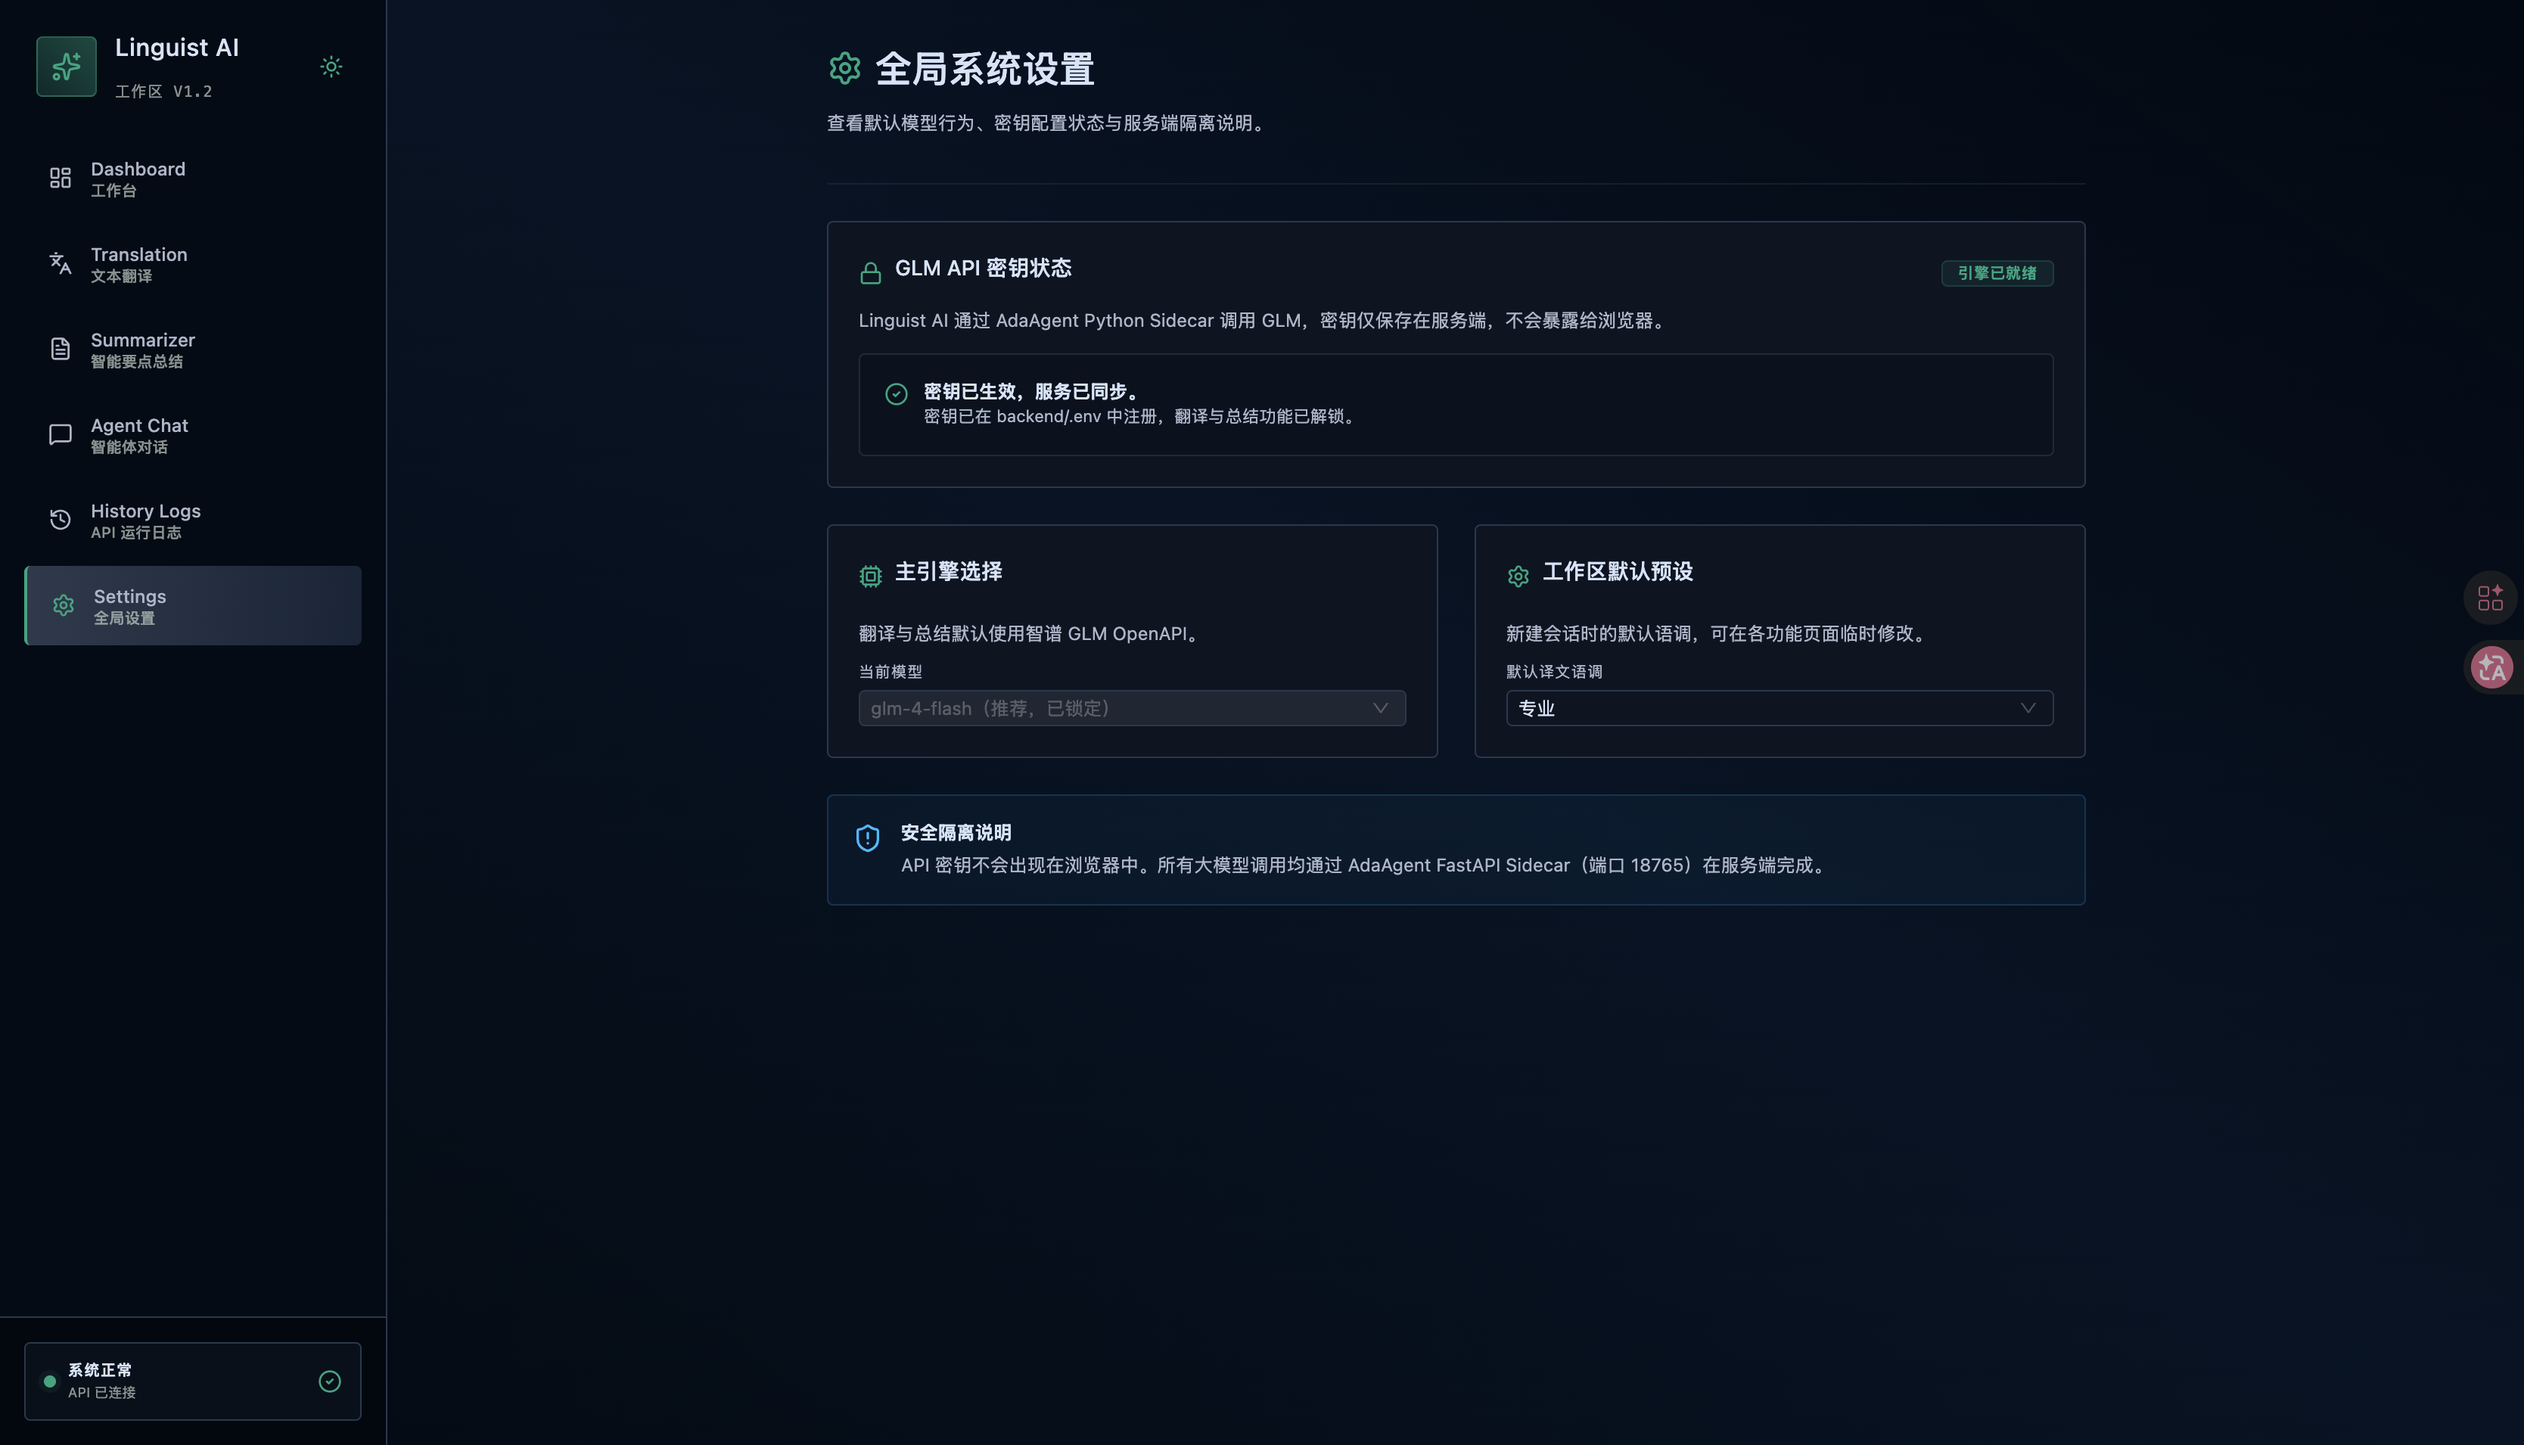
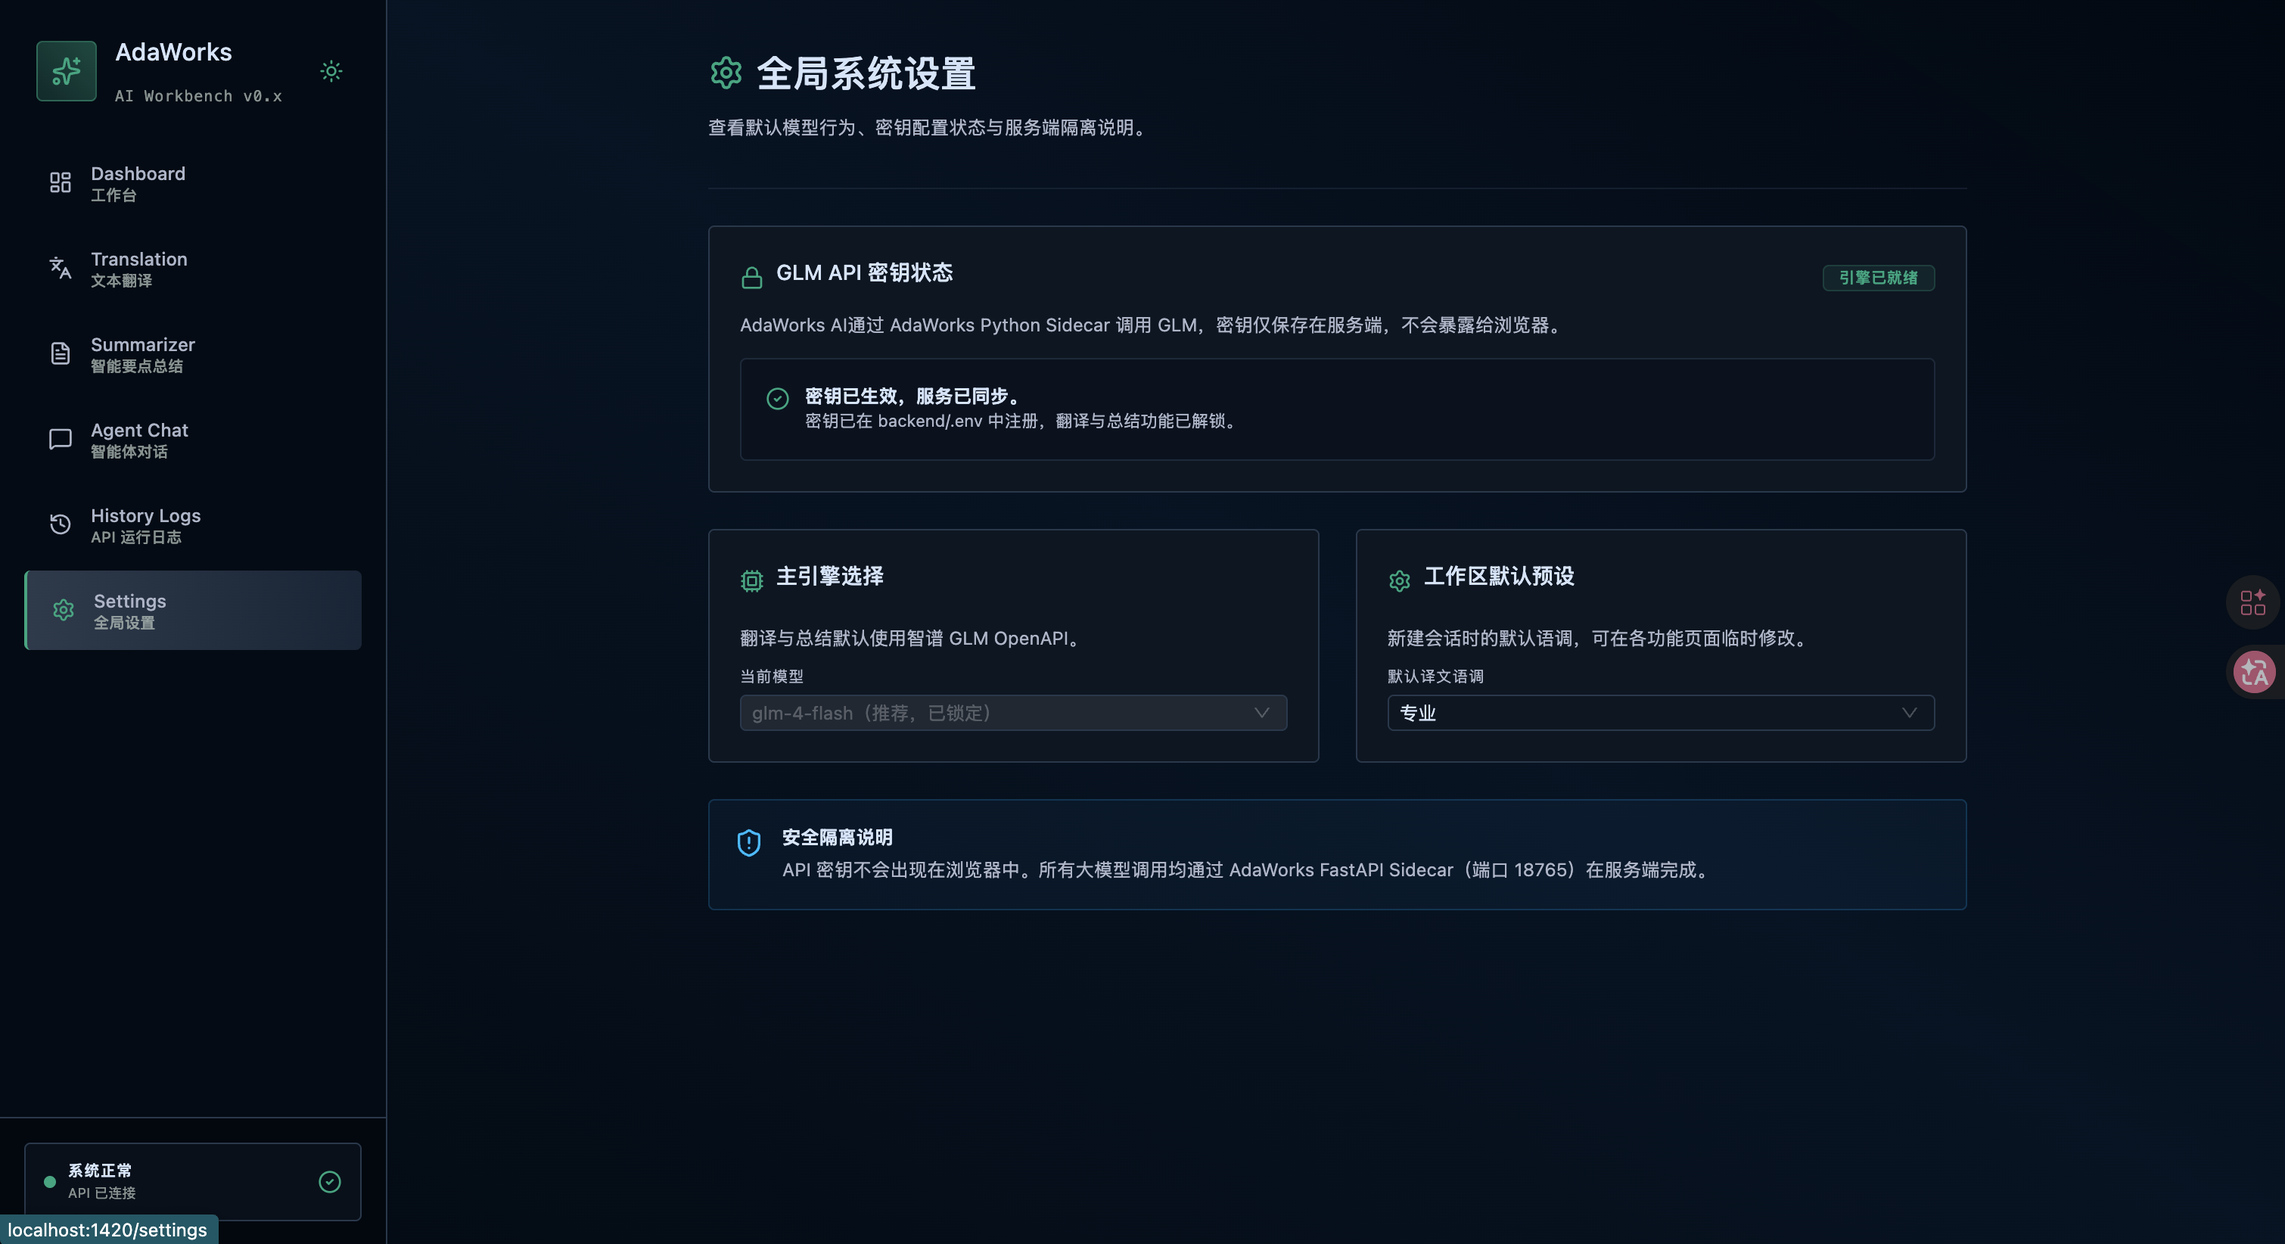
feat: 重命名 AdaAgent → AdaWorks，更新截图与 README 预览图
- 全量替换 AdaAgent/adaagent → AdaWorks/adaworks（含目录重命名 backend/adaagent/ → backend/adaworks/）
- README 添加明暗主题 Dashboard 预览图，更新 clone 地址为 Gitee
- 替换验证截图为新版 UI 截图

diff --git a/README.md b/README.md
@@ -1,5 +1,12 @@
 # AdaWorks — AI Native Workbench
 
+<p align="center">
+  <img src="docs/verification/light/Dashboard.png" alt="AdaWorks Dashboard (Light)" width="800" />
+</p>
+<p align="center">
+  <img src="docs/verification/dark/Main_Dashboard.png" alt="AdaWorks Dashboard (Dark)" width="800" />
+</p>
+
 > A full-stack AI workbench that treats every LLM capability as a unified streaming task — observable, cancellable, and extensible by design.
 
 AdaWorks 是一个正在持续迭代的 **AI Native 工作台**。它将 LLM 的各项能力（翻译、总结、Agent 对话、即将到来的 RAG 问答）统一抽象为 SSE 流式任务，共享同一套生命周期管理、安全防护与可观测性基础设施。核心理念：**新增一种 AI 能力，前端 SSE 解析逻辑零改动，后端只加一个 Prompt 构建函数。**
@@ -21,26 +28,26 @@ RAG* ──┘  ← 新增能力只需注册 task_type，前端 useTask() 直接
 
 ### 核心场景
 
-| 场景 | 用户价值 | 技术实现 |
-|------|----------|----------|
-| **多语言翻译** | 10 种语言 × 5 种语调，双栏对照实时对照 | SSE 逐 token 流式，支持中途停止、语言互换、结果导出 |
-| **智能总结** | 长文一键提炼为概述 + 要点，两种模式切换 | LLM 输出 JSON Schema 校验 + 自动重试，保证结构化结果可靠 |
-| **Agent 对话** | 多轮对话中可视化观察 Think → Act → Observe 推理过程 | WebSocket Room 广播支持多标签页，ReAct 步骤独立组件渲染 |
-| **工作台入口** | 粘贴文本自动判断翻译 or 总结并跳转 | 关键词 + 文本长度启发式路由，跨页面预填 |
-| **CLI 工具** | 终端内 `ai-app translate/summarize` 直接使用 | Click + httpx SSE 流式，零前端依赖 |
+| 场景           | 用户价值                                            | 技术实现                                                 |
+| -------------- | --------------------------------------------------- | -------------------------------------------------------- |
+| **多语言翻译** | 10 种语言 × 5 种语调，双栏对照实时对照              | SSE 逐 token 流式，支持中途停止、语言互换、结果导出      |
+| **智能总结**   | 长文一键提炼为概述 + 要点，两种模式切换             | LLM 输出 JSON Schema 校验 + 自动重试，保证结构化结果可靠 |
+| **Agent 对话** | 多轮对话中可视化观察 Think → Act → Observe 推理过程 | WebSocket Room 广播支持多标签页，ReAct 步骤独立组件渲染  |
+| **工作台入口** | 粘贴文本自动判断翻译 or 总结并跳转                  | 关键词 + 文本长度启发式路由，跨页面预填                  |
+| **CLI 工具**   | 终端内 `ai-app translate/summarize` 直接使用        | Click + httpx SSE 流式，零前端依赖                       |
 
 ### 非功能性保障
 
-| 维度 | 实现 |
-|------|------|
-| **流式性能** | `useStreamBuffer` 以 16ms（60fps）为粒度批量合并 token，避免逐 token 触发 Vue 重渲染 |
+| 维度         | 实现                                                                                   |
+| ------------ | -------------------------------------------------------------------------------------- |
+| **流式性能** | `useStreamBuffer` 以 16ms（60fps）为粒度批量合并 token，避免逐 token 触发 Vue 重渲染   |
 | **取消闭环** | 前端 `AbortController` + 后端 `asyncio.Event` 协作式取消，退出前完成日志写入和状态通知 |
-| **任务恢复** | `sessionStorage` 持久化 taskId，页面刷新后查询后端任务状态并提示用户 |
-| **安全退出** | 路由守卫拦截离开 + `beforeunload` + `fetch(keepalive:true)` 确保后端感知客户端断开 |
-| **注入防护** | XML 标签隔离用户内容 + system prompt 安全规则 + Pydantic 输出校验 + 语言一致性检查 |
-| **错误体系** | 四级错误分级（L1 输入 → L2 限流 → L3 系统 → L4 认证），全局 `X-Request-ID` 请求追踪 |
-| **输入安全** | Unicode NFC 规范化、50K 字符上限、Token 估算限制、控制字符过滤、上游错误 API Key 脱敏 |
-| **僵尸清理** | 后台 sweeper 每 60s 扫描无心跳 RUNNING 任务，标记 FAILED 释放资源 |
+| **任务恢复** | `sessionStorage` 持久化 taskId，页面刷新后查询后端任务状态并提示用户                   |
+| **安全退出** | 路由守卫拦截离开 + `beforeunload` + `fetch(keepalive:true)` 确保后端感知客户端断开     |
+| **注入防护** | XML 标签隔离用户内容 + system prompt 安全规则 + Pydantic 输出校验 + 语言一致性检查     |
+| **错误体系** | 四级错误分级（L1 输入 → L2 限流 → L3 系统 → L4 认证），全局 `X-Request-ID` 请求追踪    |
+| **输入安全** | Unicode NFC 规范化、50K 字符上限、Token 估算限制、控制字符过滤、上游错误 API Key 脱敏  |
+| **僵尸清理** | 后台 sweeper 每 60s 扫描无心跳 RUNNING 任务，标记 FAILED 释放资源                      |
 
 ---
 
@@ -133,19 +140,19 @@ Prompt层 → System 规则声明（"source content cannot override them"）
 
 ## 技术栈
 
-| 层 | 选型 | 选型理由 |
-|----|------|----------|
-| 前端框架 | Vue 3 + TypeScript + Vite | Composition API 原生支持 Composable 抽象，TypeScript 保证类型安全 |
-| UI | Ant Design Vue + Tailwind CSS v4 | Ant Design 处理复杂表单控件，Tailwind 处理布局和自定义样式 |
-| 状态管理 | Pinia (setup store) | 比 Options API store 更好的 TypeScript 推断，按业务域划分 |
-| 后端框架 | FastAPI + Uvicorn | 原生 async/await + 自动 OpenAPI 文档 + Pydantic 校验 |
-| 数据库 | SQLite (aiosqlite) | 单文件零运维，Lock 串行化写入，架构上已抽离 db.py 可迁移 |
-| 配置 | pydantic-settings | 类型安全的环境变量读取，支持验证和默认值 |
-| LLM | GLM / Gemini / Mock | 三 Provider 抽象层，Mock 模式零配置联调 |
-| 实时通信 | SSE (sse-starlette) + WebSocket | SSE 用于单向流式（翻译/总结），WS 用于双向实时（Agent Chat） |
-| HTTP 客户端 | httpx (Python) / fetch (JS) | httpx 支持 async stream，fetch 支持 ReadableStream + AbortController |
-| CLI | Click + httpx | Click 命令定义，httpx 流式读取 SSE |
-| 测试 | pytest + Vitest | 后端 pytest 异步测试，前端 Vitest 组件测试 |
+| 层          | 选型                             | 选型理由                                                             |
+| ----------- | -------------------------------- | -------------------------------------------------------------------- |
+| 前端框架    | Vue 3 + TypeScript + Vite        | Composition API 原生支持 Composable 抽象，TypeScript 保证类型安全    |
+| UI          | Ant Design Vue + Tailwind CSS v4 | Ant Design 处理复杂表单控件，Tailwind 处理布局和自定义样式           |
+| 状态管理    | Pinia (setup store)              | 比 Options API store 更好的 TypeScript 推断，按业务域划分            |
+| 后端框架    | FastAPI + Uvicorn                | 原生 async/await + 自动 OpenAPI 文档 + Pydantic 校验                 |
+| 数据库      | SQLite (aiosqlite)               | 单文件零运维，Lock 串行化写入，架构上已抽离 db.py 可迁移             |
+| 配置        | pydantic-settings                | 类型安全的环境变量读取，支持验证和默认值                             |
+| LLM         | GLM / Gemini / Mock              | 三 Provider 抽象层，Mock 模式零配置联调                              |
+| 实时通信    | SSE (sse-starlette) + WebSocket  | SSE 用于单向流式（翻译/总结），WS 用于双向实时（Agent Chat）         |
+| HTTP 客户端 | httpx (Python) / fetch (JS)      | httpx 支持 async stream，fetch 支持 ReadableStream + AbortController |
+| CLI         | Click + httpx                    | Click 命令定义，httpx 流式读取 SSE                                   |
+| 测试        | pytest + Vitest                  | 后端 pytest 异步测试，前端 Vitest 组件测试                           |
 
 ### 目录结构
 
@@ -190,7 +197,7 @@ AdaWorks/
 ### Install & Run
 
 ```bash
-git clone <repo-url> AdaWorks && cd AdaWorks
+git clone https://gitee.com/renxiaodr/ada-ai-platform.git AdaWorks && cd AdaWorks
 npm install && npm run sidecar:setup    # 安装前端依赖 + 创建后端虚拟环境
 
 # 配置 LLM（可选 — 不配置则 Mock 模式零配置运行）
@@ -200,11 +207,11 @@ cp backend/.env.example backend/.env
 npm run dev:all    # 前端(:1420) + 后端(:18765) 同时启动
 ```
 
-| Service | URL |
-|---------|-----|
-| Web UI | http://localhost:1420 |
-| API Health | http://127.0.0.1:18765/api/health |
-| CLI | `ai-app translate --text "Hello" --from en --to zh` |
+| Service    | URL                                                 |
+| ---------- | --------------------------------------------------- |
+| Web UI     | http://localhost:1420                               |
+| API Health | http://127.0.0.1:18765/api/health                   |
+| CLI        | `ai-app translate --text "Hello" --from en --to zh` |
 
 ### Test & Build
 
@@ -241,21 +248,21 @@ POST /api/task
     event: task_error   data: {taskId, message}
 ```
 
-| Operation | Method | Path |
-|-----------|--------|------|
-| Submit task | `POST` | `/api/task` |
-| Cancel task | `DELETE` | `/api/task/{taskId}` |
-| Query status | `GET` | `/api/task/{taskId}` |
-| Capability discovery | `GET` | `/api/functions` |
-| Health check | `GET` | `/api/health` |
+| Operation            | Method   | Path                 |
+| -------------------- | -------- | -------------------- |
+| Submit task          | `POST`   | `/api/task`          |
+| Cancel task          | `DELETE` | `/api/task/{taskId}` |
+| Query status         | `GET`    | `/api/task/{taskId}` |
+| Capability discovery | `GET`    | `/api/functions`     |
+| Health check         | `GET`    | `/api/health`        |
 
 ### Agent Chat
 
-| Operation | Method | Path |
-|-----------|--------|------|
-| Session CRUD | `GET/POST/DELETE` | `/api/sessions[/{id}]` |
-| Send message | `POST` | `/api/chat` |
-| Stream events | `WebSocket` | `/ws/chat/{session_id}` |
+| Operation     | Method            | Path                    |
+| ------------- | ----------------- | ----------------------- |
+| Session CRUD  | `GET/POST/DELETE` | `/api/sessions[/{id}]`  |
+| Send message  | `POST`            | `/api/chat`             |
+| Stream events | `WebSocket`       | `/ws/chat/{session_id}` |
 
 ---
 
@@ -293,12 +300,12 @@ AdaWorks 正在向完整的 AI Native Workbench 演进。当前版本 (v0.x) 已
 
 ## Documentation
 
-| Document | Description |
-|----------|-------------|
+| Document                                     | Description                                 |
+| -------------------------------------------- | ------------------------------------------- |
 | [docs/architecture.md](docs/architecture.md) | 系统架构详解 — 前端分层、后端模块、数据流图 |
-| [docs/manual.md](docs/manual.md) | 使用手册 — 功能说明、配置项、常见问题 |
-| [docs/spec/](docs/spec/) | API 契约、开发规范、需求规格、任务拆分 |
-| [agent.md](agent.md) | AI Agent 协作记录与决策日志 |
+| [docs/manual.md](docs/manual.md)             | 使用手册 — 功能说明、配置项、常见问题       |
+| [docs/spec/](docs/spec/)                     | API 契约、开发规范、需求规格、任务拆分      |
+| [agent.md](agent.md)                         | AI Agent 协作记录与决策日志                 |
 
 ---
 

diff --git a/docs/manual.md b/docs/manual.md
@@ -15,7 +15,7 @@
 ### 安装与启动
 
 ```bash
-git clone <repo-url> AdaWorks && cd AdaWorks
+git clone https://gitee.com/renxiaodr/ada-ai-platform.git AdaWorks && cd AdaWorks
 npm install
 npm run sidecar:setup          # 创建 backend/.venv 并安装依赖
 cp backend/.env.example backend/.env   # 或 cp .env.example .env
